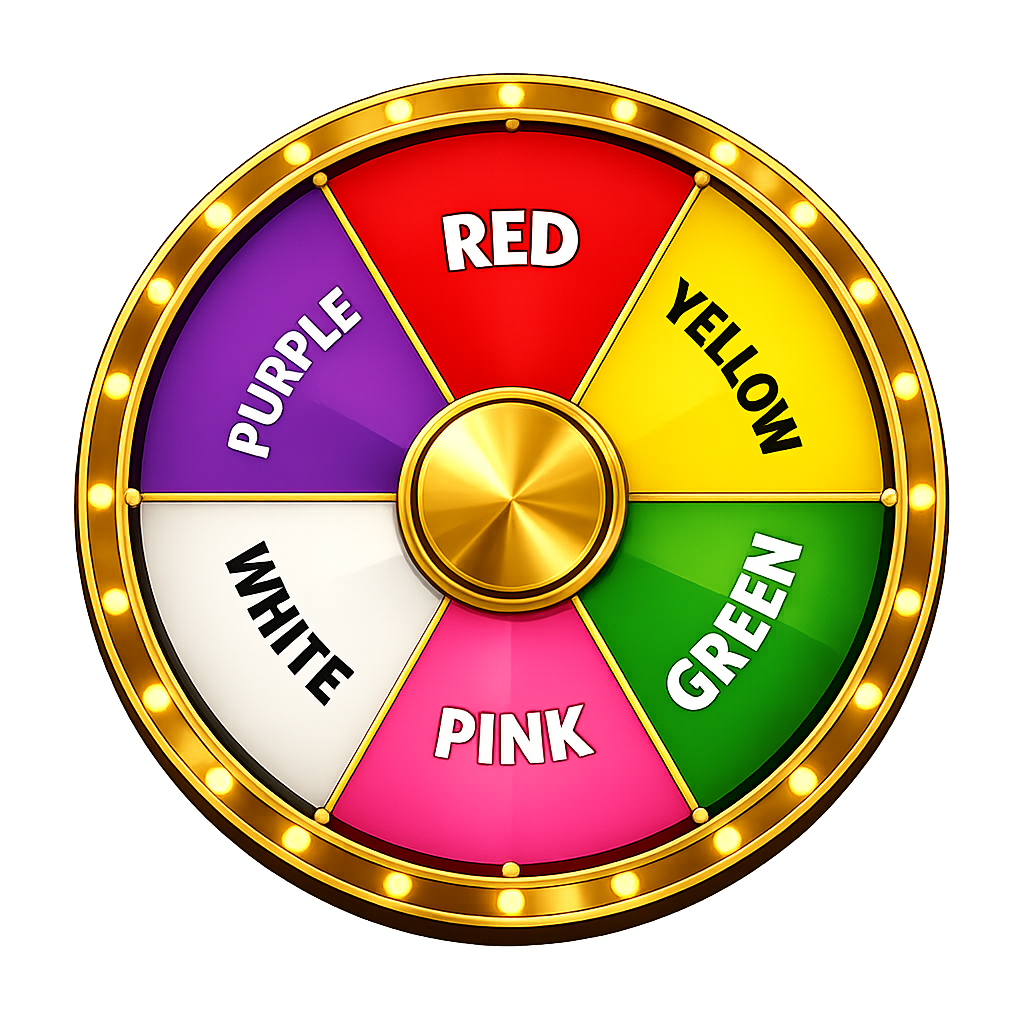
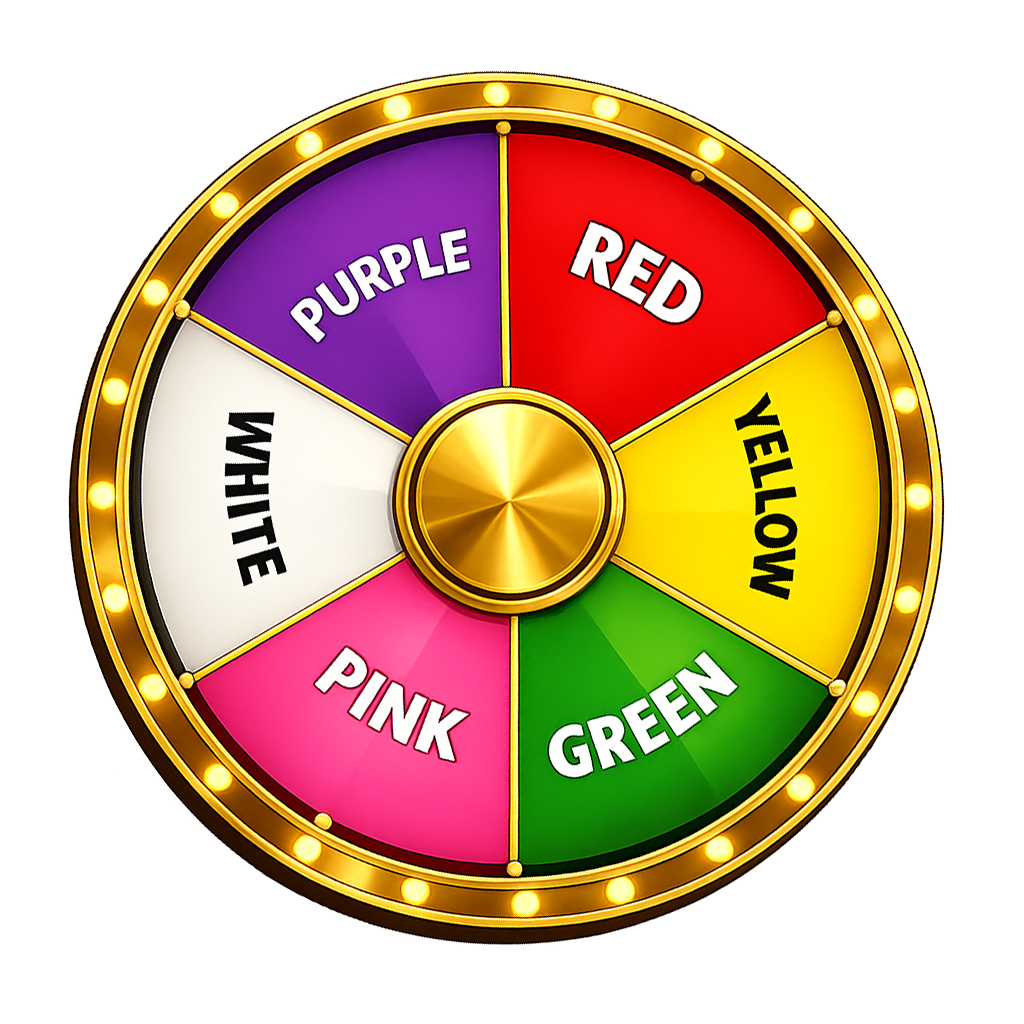
adjusted angling

diff --git a/public/index.html b/public/index.html
@@ -196,7 +196,7 @@ async function play() {
 
         // 🎡 SPIN
         const wheel = document.getElementById("wheel");
-        let degrees = 360 * 5 + (data.index * (360 / 6));
+        let degrees = 360 * 6 + (data.index * (360 / 6));
         wheel.style.transform = `rotate(${degrees}deg)`;
 
         // 🎉 SHOW RESULT AFTER SPIN
